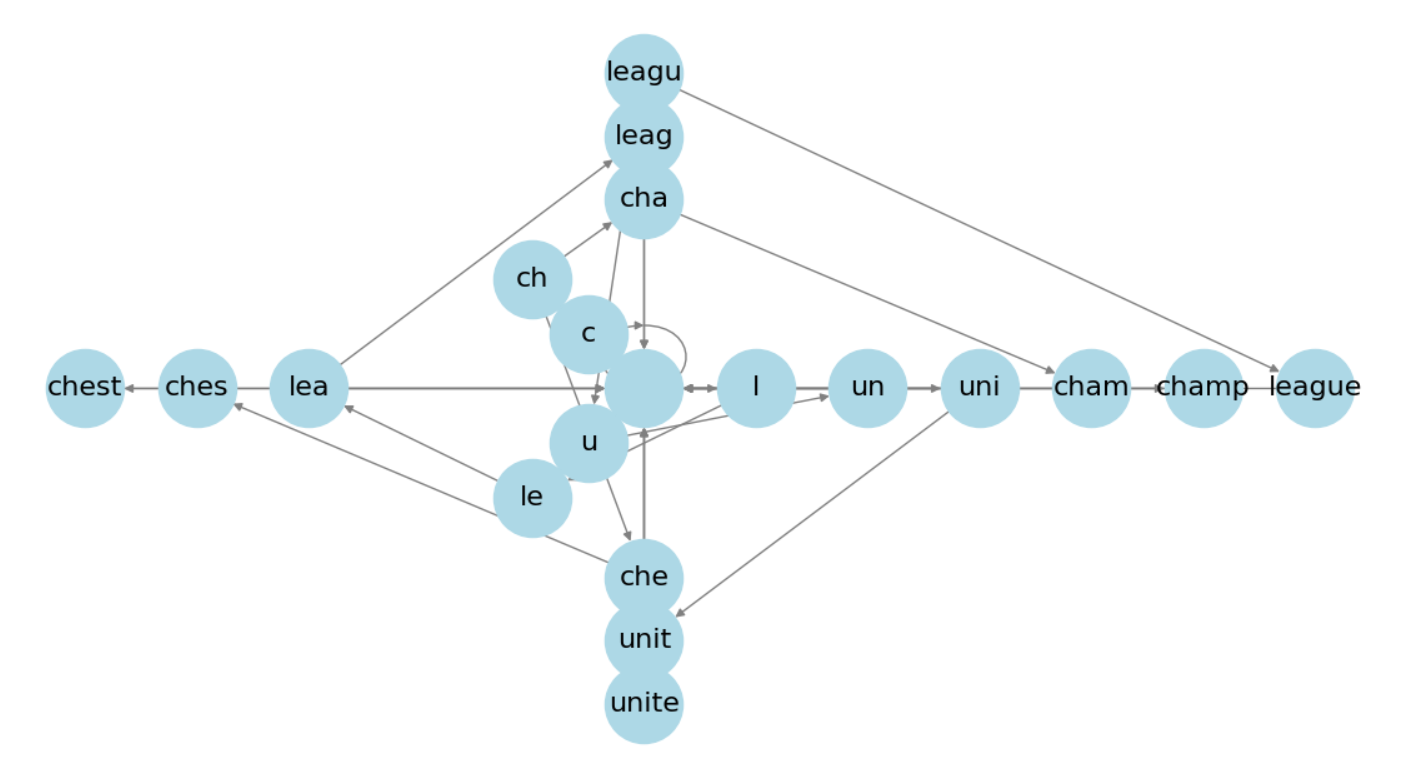
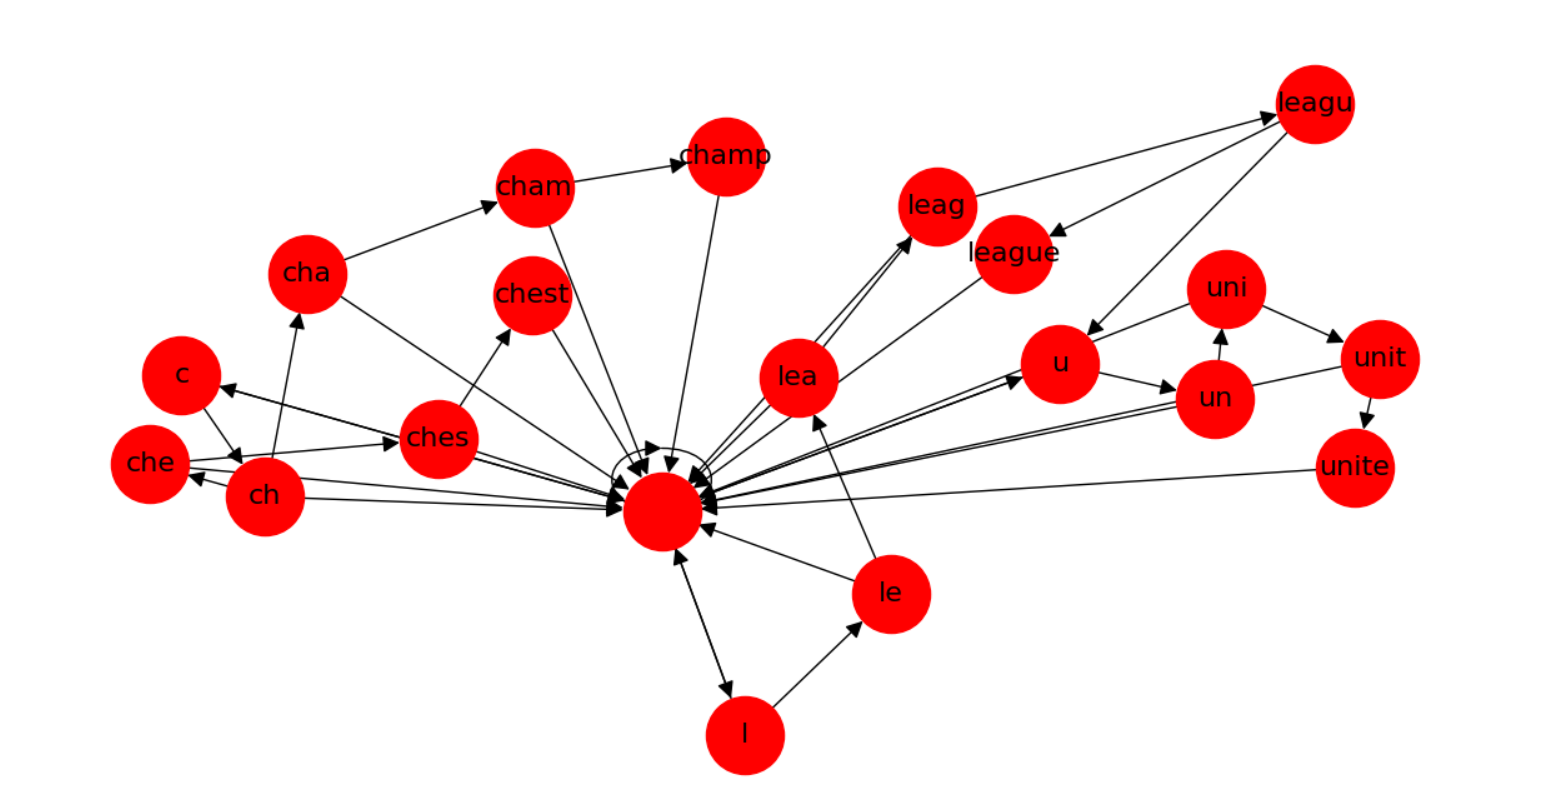
fix: canvas

diff --git a/src/Canvas.py b/src/Canvas.py
@@ -4,7 +4,6 @@ import networkx as nx
 import matplotlib.pyplot as plt
 from matplotlib.backends.backend_tkagg import FigureCanvasTkAgg
 from typing import List
-import numpy as np
 
 class LeGraph:
     graph: nx.DiGraph
@@ -35,30 +34,12 @@ class LeGraph:
         self.figure.clear()
         ax = self.figure.add_subplot(111)
 
-        # Compute the levels for the shell layout
-        pos = self.get_shell_layout()
-        nx.draw(self.graph, pos, with_labels=True, node_color='lightblue', edge_color='gray', node_size=2000, font_size=16, ax=ax)
+        # Use a spring layout or another suitable layout
+        pos = nx.spring_layout(self.graph, seed=42, k=0.3, iterations=50)
+
+        # Draw the nodes and edges with customizations
+        nx.draw(self.graph, pos, with_labels=True, node_color='red', edge_color='black',
+                node_size=2000, font_size=16, ax=ax, arrows=True, arrowsize=20)
+
+        # Draw the graph on the canvas
         self.canvas.draw()
-
-    def get_shell_layout(self):
-        # Determine the level of each node based on the length of its label
-        levels = {}
-        for node in self.graph.nodes:
-            level = len(str(node))
-            if level not in levels:
-                levels[level] = []
-            levels[level].append(node)
-
-        # Create shell layout positions
-        pos = {}
-        for level, nodes in levels.items():
-            num_nodes = len(nodes)
-            angle_step = 2 * np.pi / num_nodes
-            radius = level  # The radius can be adjusted for spacing
-            for i, node in enumerate(nodes):
-                angle = i * angle_step
-                x = radius * np.cos(angle)
-                y = radius * np.sin(angle)
-                pos[node] = (x, y)
-                
-        return pos
